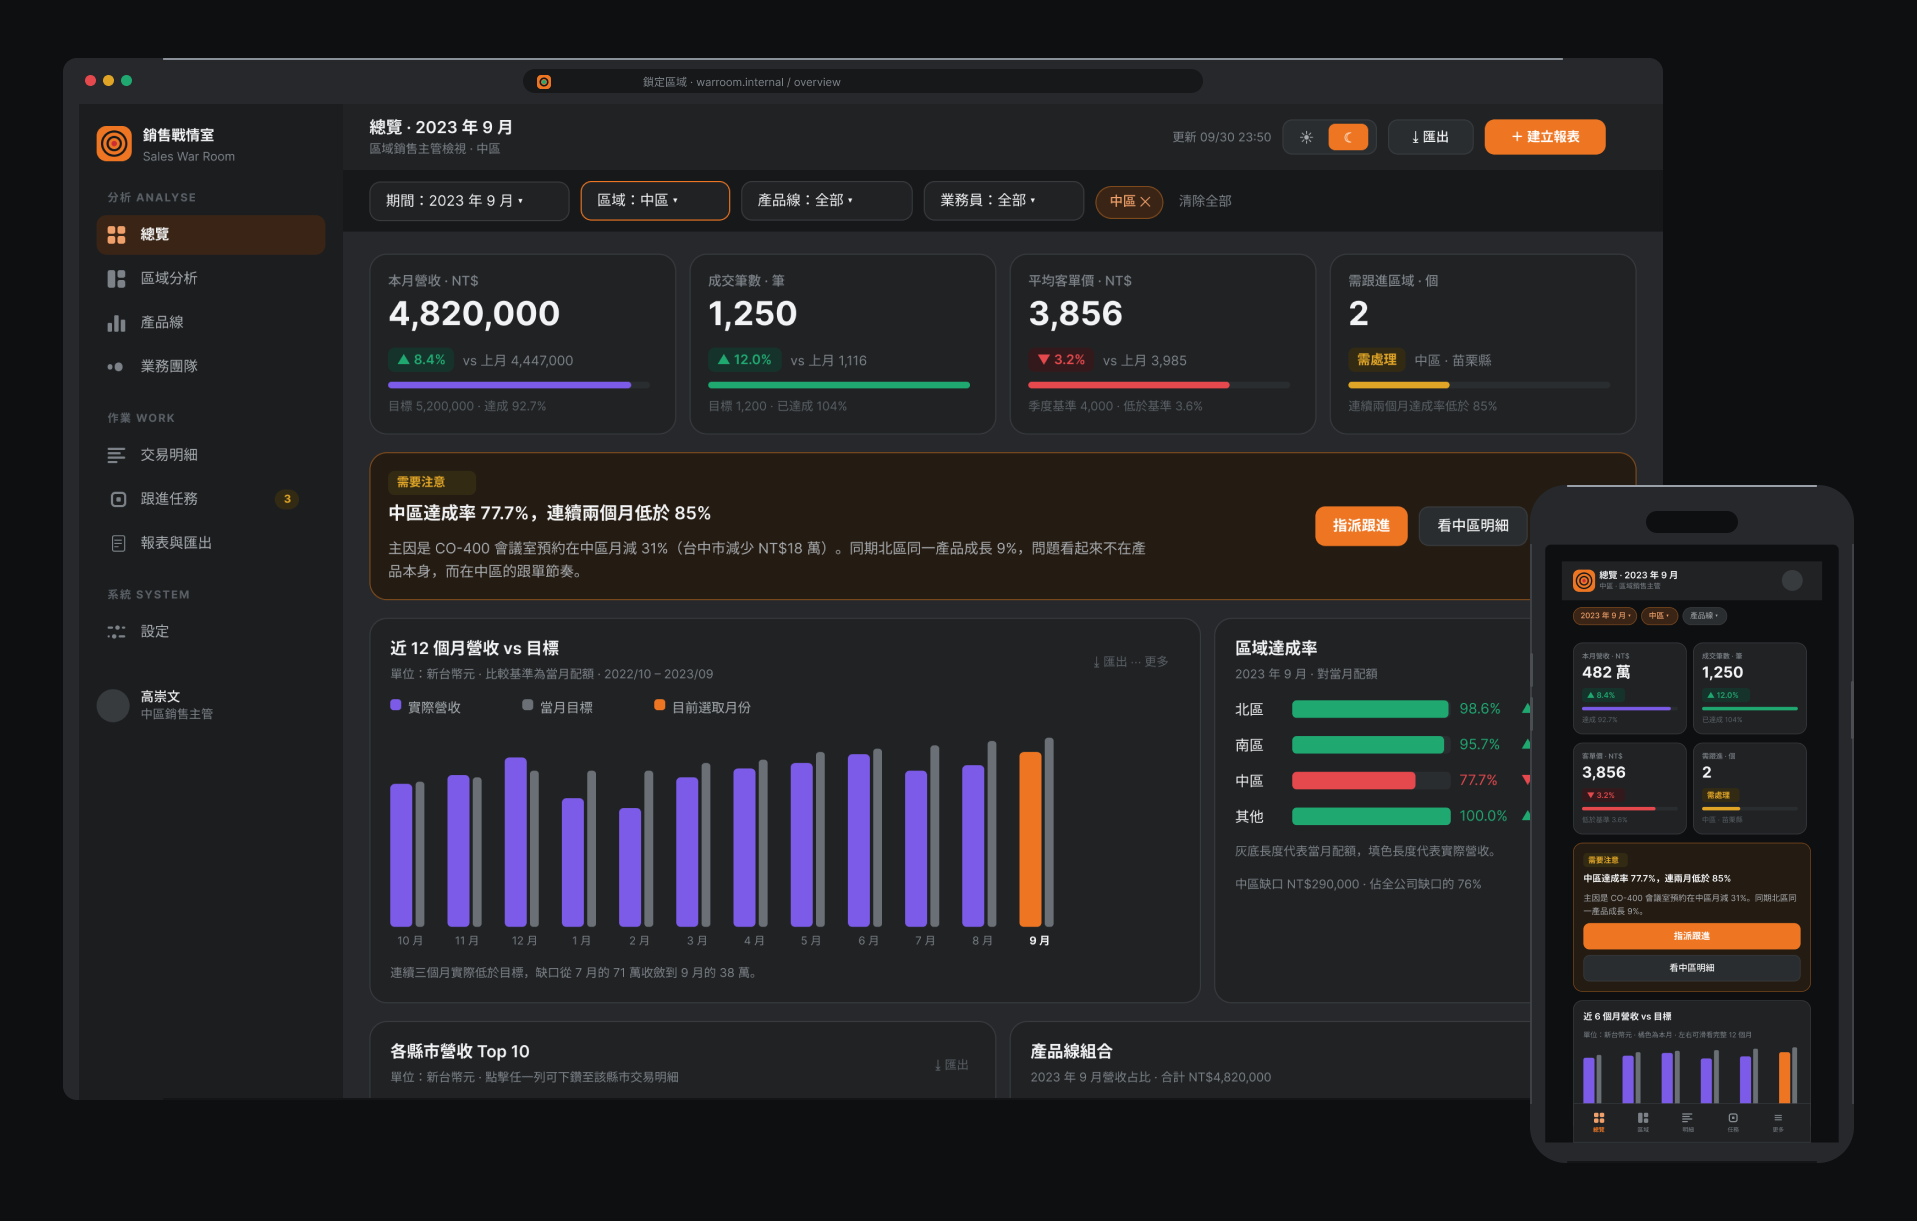
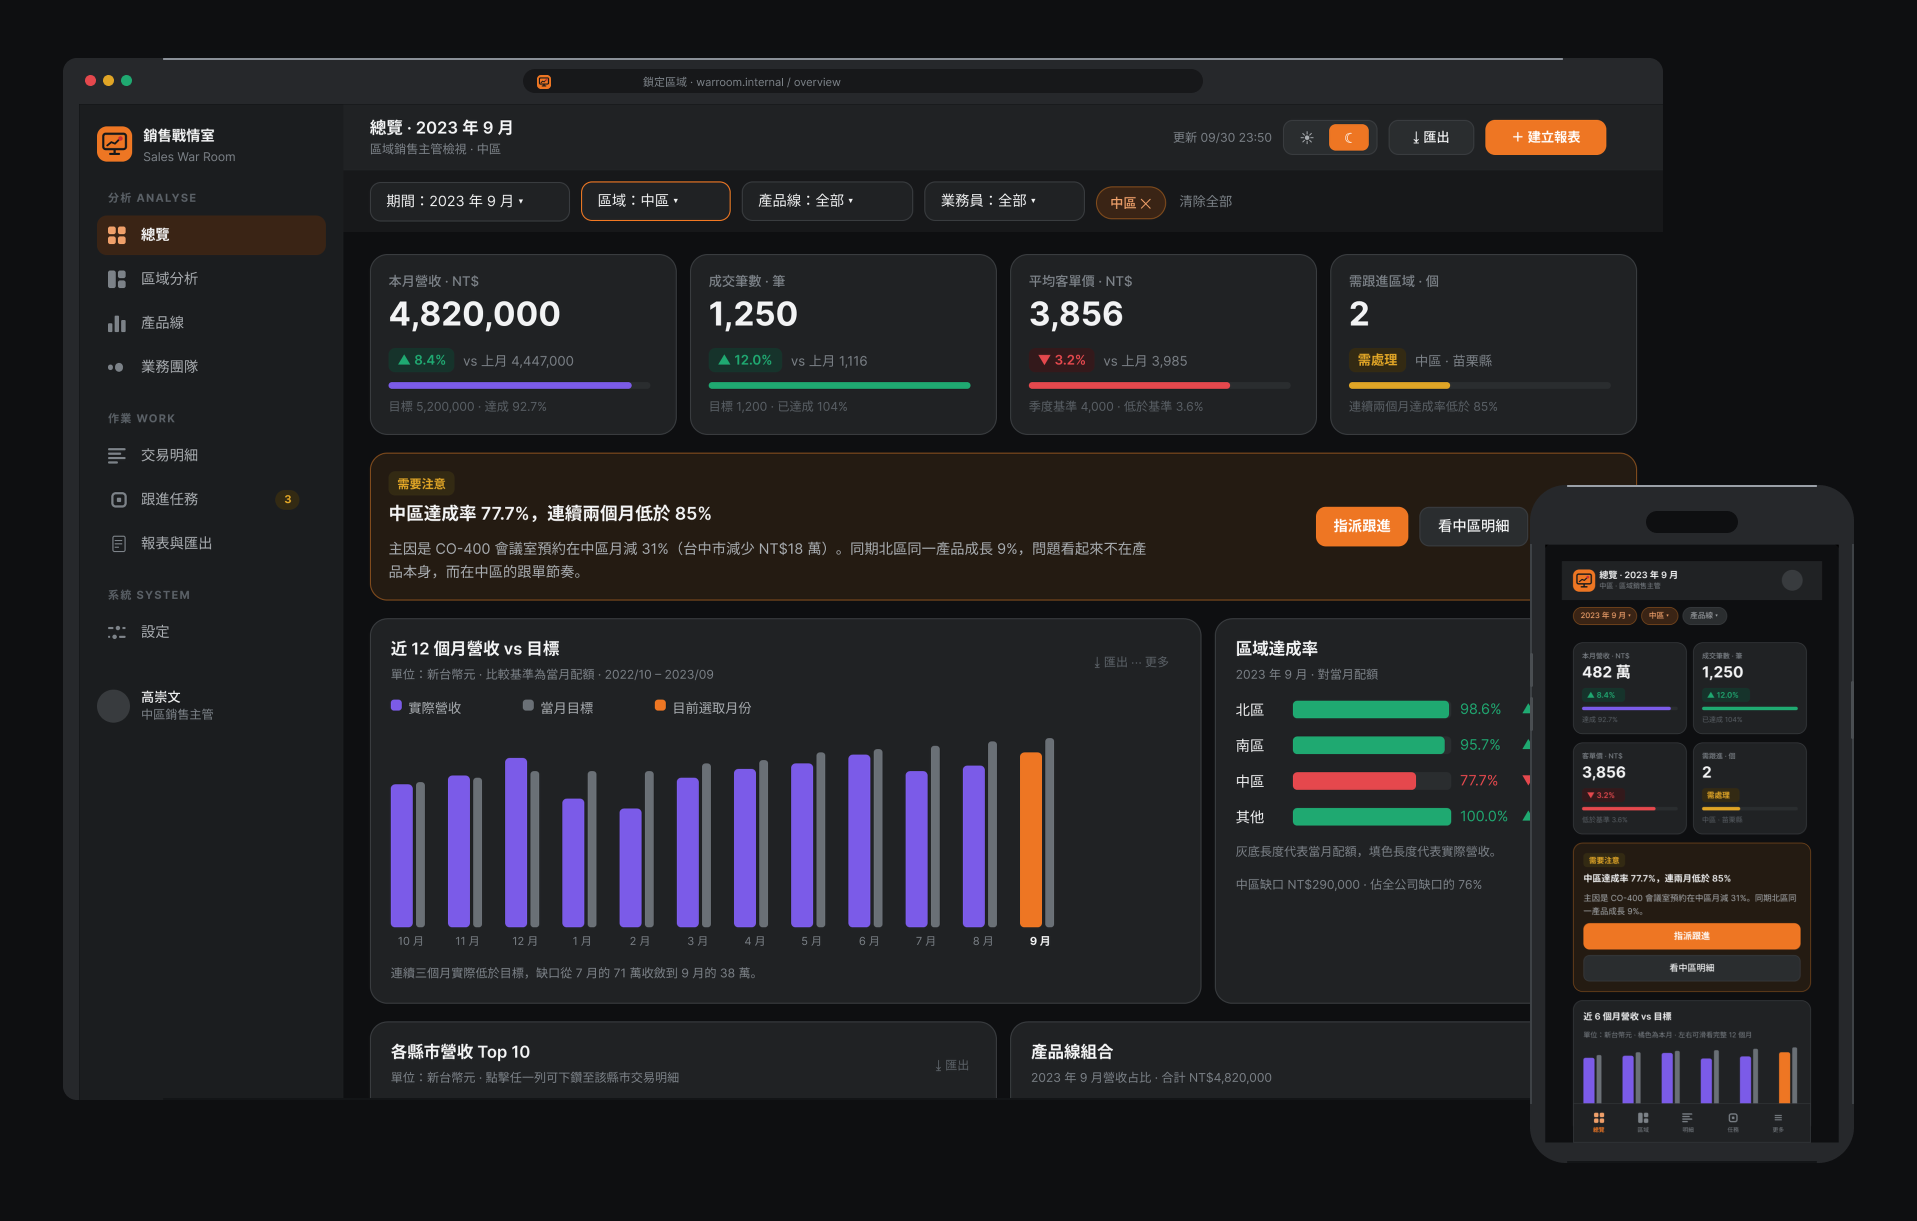
content: 更新1 個案例頁、圖片
- 案例頁：sales-dashboard
- 圖片：
  · sales-dashboard：10 張更換、新增 1 張

由 npm run publish 產生；發布前已通過 astro build 驗證。

diff --git a/src/content/projects/sales-dashboard.md b/src/content/projects/sales-dashboard.md
@@ -153,6 +153,34 @@ sections:
             七種對話框、三種
             toast。標題就是問題本身，破壞性動作用紅色而且永遠不是預設焦點，按下去之前先說清楚範圍：匯出幾筆、影響幾人、什麼時候生效。可逆的事不問，直接做，然後給「復原」。
     direction: vertical
+  - type: experienceDemo
+    layout: stacked
+    eyebrow:
+      en: BRAND
+      zh: 品牌
+    heading:
+      en: A mark that says what the product does
+      zh: 讓標誌直接說出這個產品在做什麼
+    body:
+      en: >-
+        The original mark was a bullseye — it said "aim" but never said at
+        what. I explored four directions that all keep the orange rounded
+        square and put a screen inside it, and picked B: a rising line on a
+        monitor that ends in a red dot. The screen is the war room, the line is
+        the trend, and the dot is the one anomaly the insight card wants you to
+        look at. The orange is the same accent the interface uses, and below
+        20px the strokes thicken so it still reads in the sidebar and a browser
+        tab.
+      zh: >-
+        原本的標誌是靶心——它說「瞄準」，卻沒說瞄準什麼。我試了四個方向，都保留橘色圓角方塊、把一台螢幕放進去，最後選了
+        B：螢幕裡一條上升的折線，終點是一個紅點。螢幕是戰情室，折線是趨勢，紅點就是洞察卡要你注意的那個異常。底座的橘和介面強調色是同一個橘；20px
+        以下線條自動加粗，在側欄和瀏覽器分頁的尺寸也讀得出來。
+    ratio: 101/36
+    alt:
+      en: >-
+        Logo redesign board — four computer-themed directions, each shown at
+        160, 44 and 30 px and on dark and light headers
+      zh: 標誌重新設計提案——四個電腦主題方向，各自展示 160、44、30 px 三種尺寸與深淺兩種頁首
   - type: flow
     eyebrow:
       en: FLOW
